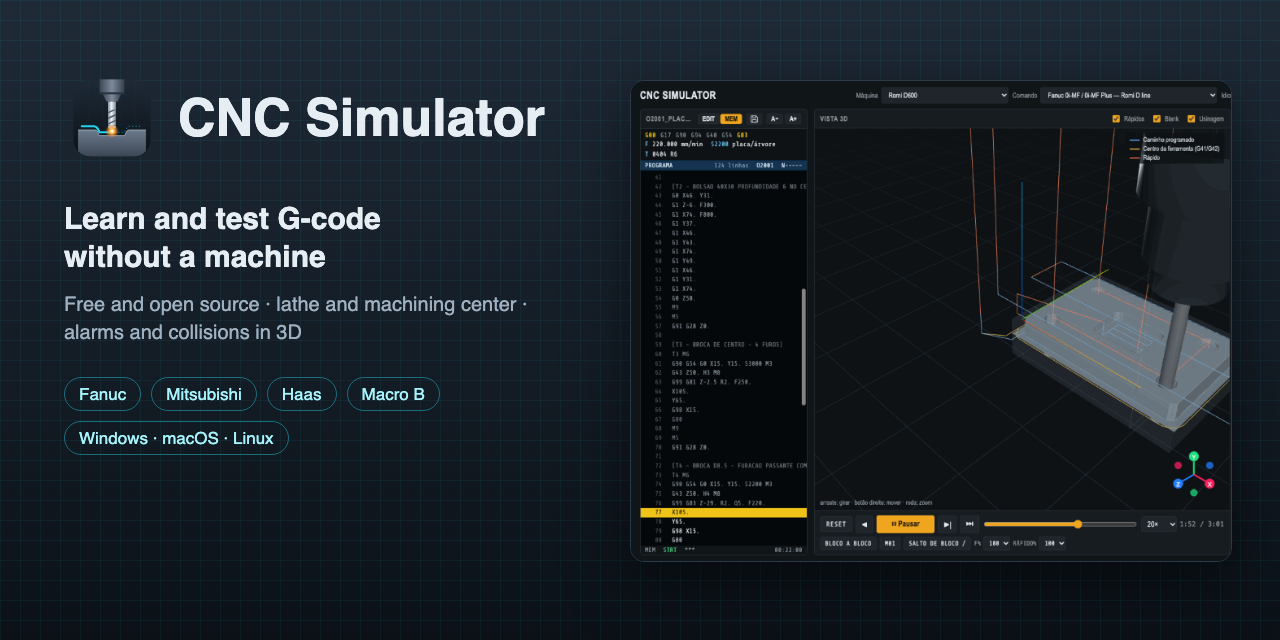
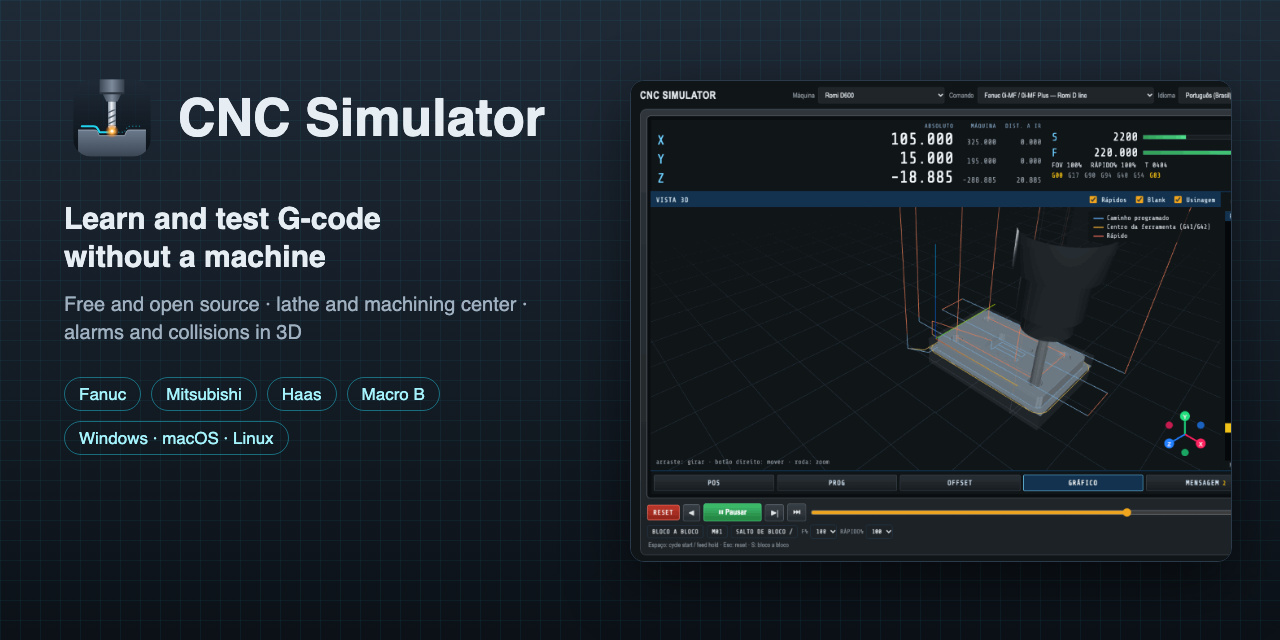
docs: machine layout, new demo and social preview

Changed region(s): [[0.5, 0.125, 0.9688, 0.875], [0.625, 0.4688, 0.6562, 0.625]]

diff --git a/README.md b/README.md
@@ -12,7 +12,7 @@ Website: **[ismael-figueiredo.github.io/cnc-simulator](https://ismael-figueiredo
 
 It reads G-code, takes the **machine** and the **control** from JSON files (a post-processor in reverse) and shows the toolpath and the machined part in 3D.
 
-![The O2001 plate example being machined: Fanuc-style program screen, 3D toolpath, tool in its BT40 holder, the stock changing where it is cut](docs/demo.gif)
+![The O2001 plate example being machined in the machine layout: position, spindle and feed on top, 3D toolpath and the running program, soft keys and the operator panel below](docs/demo.gif)
 
 ## Who it is for
 
@@ -38,6 +38,7 @@ Installers for every version are on the **[Releases page](https://github.com/ism
 - **Parametric programs (Macro B):** variables, math and IF/GOTO/WHILE run as on the control, on every bundled machine (all their controls have the macro option). Plain G-code and the control's own canned cycles run too; the examples have both.
 - **Stops on the machine's alarms:** program errors stop at the block with the control's own number and message (for example `PS0010 IMPROPER G-CODE`).
 - **Operator panel:** single block, M01 optional stop, block delete "/", feed and rapid overrides (the cycle time follows them), and breakpoints on any line.
+- **Screen like the machine:** the **Machine** layout puts everything on one control screen, as on the machine: position in large digits with machine coordinates and distance to go, spindle and feed with load bars and overrides, active codes, the 3D view next to the running program, and **soft keys** for the POS (ALL), PROG, OFFSET, GRAPH, MESSAGE and SETTING pages. The operator panel is underneath; **Space** is cycle start / feed hold, **Esc** is reset and **S** single block. The **CAM** layout (program, 3D view, side panel) is one click away at the top.
 - **Program screen like the control:** Fanuc-style MEM screen with the running block, O and N numbers and run state. **EDIT** turns it into an editor (colors, undo, find and replace); it stops a running program, and the path, messages and alarms follow the text as you type.
 - **Tool offsets:** OFFSET screen with H/D (machining centers) or X/Z, nose radius and tip (lathes), geometry and wear; a wrong H moves the tip as on the machine; lathe nose radius compensation G41/G42.
 - **Lathe canned cycles:** G71/G72 roughing, G73 pattern repeating and G70 finishing from the shape between P and Q; G90/G94/G92 (system A) and G77/G79/G78 (system B) single cycles; G76 multiple threading and G32/G33 thread cutting at the lead per revolution. The stock is turned pass by pass.
@@ -58,9 +59,9 @@ Installers for every version are on the **[Releases page](https://github.com/ism
 
 1. **Start screen:** open a program (`.nc`, `.tap`, `.txt`…) or a project, create a new program, or open one of the **Examples**: an ANSI 40 sprocket on a Romi GL 250 M with live tooling, a stepped shaft turned on a Romi GL 300 (roughing, finishing with ,C/,R, grooving), a threaded shaft made with G71/G70 and a G76 thread on the same lathe, an aluminium plate and a two-vise job on a Romi D600 machining center. Recent files are listed here and in **File → Open recent**.
 2. **Pick the machine and the control** at the top. A program opened alone uses the machine's stock and the bundled tools.
-3. **Run:** the program opens at RESET, cursor on the first block, as on the control. **▶ Run** plays it; step block by block with ◀ and ▶|; **RESET** goes back to the start and ⏭ to the end. **Click a block to start from it**, or **click its line number** to stop there (breakpoint). Under the player: **SINGLE BLOCK**, **M01**, **BLOCK DELETE /** and the **feed and rapid overrides**. The active G codes, F, S, T and canned cycle are shown above the program. Messages and alarms are listed on the right; click one to go to its block.
+3. **Run:** the program opens at RESET, cursor on the first block, as on the control. **▶ Run** plays it; step block by block with ◀ and ▶|; **RESET** goes back to the start and ⏭ to the end. **Click a block to start from it**, or **click its line number** to stop there (breakpoint). Under the player: **SINGLE BLOCK**, **M01**, **BLOCK DELETE /** and the **feed and rapid overrides**. The active G codes, F, S, T and canned cycle are shown above the program. Messages and alarms are listed on the right (MESSAGE page in the machine layout); click one to go to its block.
 4. **EDIT / MEM:** EDIT changes the program and stops it if it was running; while you type, the path and messages are recomputed (the program goes back to RESET). MEM runs it as edited. **File → Save** (Ctrl/⌘+S) writes it back.
-5. **Setup:** in the right panel, edit the **Stock** (or fit it to the program, and choose where the work zero sits on it), the **Work offsets** and the **Tools**, then **Save as project (.cncsim)** to keep it all next to the program. The disk icon above the program saves only the program (`.nc`).
+5. **Setup:** in the right panel (SETTING and OFFSET pages in the machine layout), edit the **Stock** (or fit it to the program, and choose where the work zero sits on it), the **Work offsets** and the **Tools**, then **Save as project (.cncsim)** to keep it all next to the program. The disk icon above the program saves only the program (`.nc`).
 
 ### Learn with the examples
 
@@ -360,7 +361,7 @@ Three separate files you can mix: the same machine with another control, or one 
 7. **Server:** `/api/simulate` API and use from a browser on the shop network.
 8. **Importers and collision:** read FreeCAD posts and Fusion `.cps`; tool and holder collision with part, chuck and turret.
 9. **Screen and learning:**
-   - **Machine mode:** one panel shaped like a control (position, feed and spindle, graphics and program together, softkeys), next to the current **CAM mode**.
+   - ✅ **Machine layout:** one control screen (position, feed and spindle, graphics and program together, soft keys), next to the **CAM layout**.
    - **CAM mode:** sidebar tabs, operation list per tool, timeline colored by tool, quick 3D views, measuring.
    - **Learn mode:** help on each G/M code and macro word, guided exercises checked against the expected part.
 

diff --git a/README.pt-BR.md b/README.pt-BR.md
@@ -12,7 +12,7 @@ Site: **[ismael-figueiredo.github.io/cnc-simulator](https://ismael-figueiredo.gi
 
 Lê G-code, usa a **máquina** e o **comando** descritos em JSON (um pós-processador às avessas) e mostra o percurso e a peça usinada em 3D.
 
-![O exemplo O2001 sendo usinado: tela de programa estilo Fanuc, percurso 3D, ferramenta no cone BT40, o blank mudando onde é cortado](docs/demo.gif)
+![O exemplo O2001 sendo usinado no layout de máquina: posição, rotação e avanço em cima, percurso 3D e o programa rodando, softkeys e o painel de operação embaixo](docs/demo.gif)
 
 ## Para quem é
 
@@ -38,6 +38,7 @@ Os instaladores de cada versão estão na **[página de Releases](https://github
 - **Programas parametrizados (Macro B):** variáveis, contas e IF/GOTO/WHILE rodam como no comando, em todas as máquinas incluídas (todos os comandos delas têm a opção de macro). G-code comum e os ciclos fixos do próprio comando também; os exemplos têm os dois.
 - **Para nos alarmes da máquina:** erros de programa param no bloco com o número e a mensagem do próprio comando (por exemplo `PS0010 IMPROPER G-CODE`).
 - **Painel de operação:** bloco a bloco, parada opcional M01, salto de bloco "/", override de avanço e de rápido (o tempo de ciclo acompanha) e pontos de parada em qualquer linha.
+- **Tela como a da máquina:** o layout **Máquina** põe tudo numa tela de comando, como na máquina: posição em dígitos grandes com coordenadas de máquina e distância a ir, rotação e avanço com barras e overrides, códigos ativos, a vista 3D ao lado do programa em execução e **softkeys** para as páginas POS (ALL), PROG, OFFSET, GRÁFICO, MENSAGEM e AJUSTES. O painel de operação fica embaixo; **Espaço** é cycle start / feed hold, **Esc** é reset e **S** bloco a bloco. O layout **CAM** (programa, vista 3D, painel lateral) está a um clique, no topo.
 - **Tela de programa como a do comando:** tela MEM estilo Fanuc com o bloco em execução, números O e N e estado de execução. **EDIT** vira um editor (cores, desfazer, buscar e substituir); ele para o programa que estiver rodando, e o percurso, as mensagens e os alarmes acompanham o texto enquanto você digita.
 - **Corretores de ferramenta:** tela OFFSET com H/D (centro de usinagem) ou X/Z, raio e direção de ponta (torno), geometria e desgaste; um H errado desloca a ponta como na máquina; compensação do raio da ponta G41/G42 no torno.
 - **Ciclos de torno:** desbaste G71/G72, repetição de perfil G73 e acabamento G70 a partir do perfil entre P e Q; ciclos simples G90/G94/G92 (sistema A) e G77/G79/G78 (sistema B); rosca G76 em várias passadas e G32/G33 com avanço pelo passo. A barra é usinada passe a passe.
@@ -58,9 +59,9 @@ Os instaladores de cada versão estão na **[página de Releases](https://github
 
 1. **Tela inicial:** abra um programa (`.nc`, `.tap`, `.txt`…) ou um projeto, crie um programa novo ou abra um dos **Exemplos**: coroa ANSI 40 num Romi GL 250 M com ferramenta acionada, um eixo escalonado torneado num Romi GL 300 (desbaste, acabamento com ,C/,R, canal), um eixo roscado feito com G71/G70 e rosca G76 no mesmo torno, uma placa de alumínio e um trabalho em duas morsas num centro de usinagem Romi D600. Os arquivos recentes ficam aqui e em **Arquivo → Abrir recente**.
 2. **Escolha a máquina e o comando** no topo. Um programa aberto sozinho usa o blank da máquina e as ferramentas padrão.
-3. **Execute:** o programa abre em RESET, com o cursor no primeiro bloco, como no comando. **▶ Executar** roda; ◀ e ▶| andam bloco a bloco; **RESET** volta ao início e ⏭ vai ao fim. **Clique num bloco para começar dele**, ou **no número da linha** para parar ali (ponto de parada). Embaixo do player: **BLOCO A BLOCO**, **M01**, **SALTO DE BLOCO /** e os **overrides de avanço e de rápido**. Os códigos G ativos, F, S, T e o ciclo fixo aparecem acima do programa. Mensagens e alarmes ficam à direita; clique numa para ir ao bloco.
+3. **Execute:** o programa abre em RESET, com o cursor no primeiro bloco, como no comando. **▶ Executar** roda; ◀ e ▶| andam bloco a bloco; **RESET** volta ao início e ⏭ vai ao fim. **Clique num bloco para começar dele**, ou **no número da linha** para parar ali (ponto de parada). Embaixo do player: **BLOCO A BLOCO**, **M01**, **SALTO DE BLOCO /** e os **overrides de avanço e de rápido**. Os códigos G ativos, F, S, T e o ciclo fixo aparecem acima do programa. Mensagens e alarmes ficam à direita (página MENSAGEM no layout de máquina); clique numa para ir ao bloco.
 4. **EDIT / MEM:** EDIT altera o programa e para a execução se estiver rodando; enquanto você digita, o percurso e as mensagens são recalculados (o programa volta para RESET). MEM roda como está. **Arquivo → Salvar** (Ctrl/⌘+S) grava.
-5. **Preparação:** no painel da direita, edite o **Blank** (ou gere pelo programa e escolha onde fica o zero peça nele), os **Zeros de peça** e as **Ferramentas** e use **Salvar como projeto (.cncsim)** para guardar tudo ao lado do programa. O disquete acima do programa salva só o programa (`.nc`).
+5. **Preparação:** no painel da direita (páginas AJUSTES e OFFSET no layout de máquina), edite o **Blank** (ou gere pelo programa e escolha onde fica o zero peça nele), os **Zeros de peça** e as **Ferramentas** e use **Salvar como projeto (.cncsim)** para guardar tudo ao lado do programa. O disquete acima do programa salva só o programa (`.nc`).
 
 ### Aprenda com os exemplos
 
